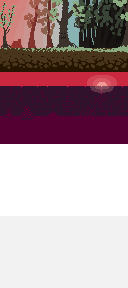
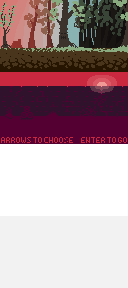
Economy scene

Changed region(s): [[0.0, 0.4688, 0.5625, 0.5], [0.625, 0.4688, 1.0, 0.5]]

diff --git a/EconomyManager.cpp b/EconomyManager.cpp
@@ -1,8 +1,173 @@
+#include <bits/stdc++.h>
 #include "EconomyManager.h"
+#include "Factory.h"
 
-EconomyManager::EconomyManager(Scene& scene) : scene_(scene) {
+EconomyManager::EconomyManager(Scene& scene) : scene_(dynamic_cast<EconomyScene&>(scene)) {
 }
 
 void EconomyManager::Update() {
-    scene_.has_finished = true;
+    static int index = 0;
+    auto& decorator = scene_.decorator;
+    bool is_last = index == decorator.GetSquadSize() 
+        || index == decorator.GetSquadSize() - 1;
+    auto input = GetInput();
+
+    DrawSquad();
+
+    if (is_last) {
+        DrawOptionsLast(index);
+        ChangeLastUnit(index, -input.y);
+    } else {
+        DrawOptions(index);
+        ChangeUnit(index, -input.y);
+    }
+
+    int min = 0, max = std::min(max_size - 1, static_cast<int>(decorator.GetSquadSize()));
+    index = std::max(min, std::min(index + input.x, max));
+
+    if (sf::Keyboard::isKeyPressed(sf::Keyboard::Enter)) {
+        scene_.has_finished = true;
+    }
+}
+
+void EconomyManager::DrawSquad() {
+    auto& drawer = DrawManager::GetInstance();
+    int x_offset = 0, x_delta = tile_size;
+    int y_offset = icon_y;
+    auto units = scene_.decorator.GetSquad().units;
+
+    for (const auto& unit: units) {
+        auto drawable = DrawableObject::FromIcon(unit->icon_type);
+        sf::Vector2i position(x_offset, y_offset);
+        drawable.position_ = position;
+        x_offset += x_delta;
+        drawer.AddDrawableObject(drawable);
+    }
+
+    auto drawable = DrawableObject::FromIcon(DrawableObject::IconEmpty);
+    sf::Vector2i position(x_offset, y_offset);
+    drawable.position_ = position;
+    drawer.AddDrawableObject(drawable);
+}
+
+/*
+Knight
+CrossbowMan
+Berserk
+*/
+void EconomyManager::DrawOptions(int index) {
+    auto& drawer = DrawManager::GetInstance();
+    auto& decorator = scene_.decorator;
+    int x_offset = tile_size * index;
+    int y_lower = icon_y - tile_size;
+    int y_upper = icon_y + tile_size;
+
+    auto type = decorator.GetSquad().units[index]->icon_type;
+    auto lower_type = type + 8;
+    if (lower_type == 4 * 8) lower_type = 1 * 8;
+    auto upper_type = type - 8;
+    if (upper_type == 0 * 8) upper_type = 3 * 8;
+
+    auto lower_drawable = DrawableObject::FromIcon(DrawableObject::Icon(lower_type));
+    lower_drawable.position_ = sf::Vector2i(x_offset, y_lower);
+    drawer.AddDrawableObject(lower_drawable);
+    
+    auto upper_drawable = DrawableObject::FromIcon(DrawableObject::Icon(upper_type));
+    upper_drawable.position_ = sf::Vector2i(x_offset, y_upper);
+    drawer.AddDrawableObject(upper_drawable);    
+}
+
+/*
+Knight
+CrossbowMan
+Berserk
+Empty
+*/
+void EconomyManager::DrawOptionsLast(int index) {
+    auto& drawer = DrawManager::GetInstance();
+    auto& decorator = scene_.decorator;
+    int x_offset = tile_size * index;
+    int y_lower = icon_y - tile_size;
+    int y_upper = icon_y + tile_size;
+
+    auto type = index == decorator.GetSquadSize() ? 0 
+        : decorator.GetSquad().units[index]->icon_type;
+    auto lower_type = type + 8;
+    if (lower_type == 4 * 8) lower_type = 0 * 8;
+    auto upper_type = type - 8;
+    if (upper_type ==-1 * 8) upper_type = 3 * 8;
+
+    auto lower_drawable = DrawableObject::FromIcon(DrawableObject::Icon(lower_type));
+    lower_drawable.position_ = sf::Vector2i(x_offset, y_lower);
+    drawer.AddDrawableObject(lower_drawable);
+    
+    auto upper_drawable = DrawableObject::FromIcon(DrawableObject::Icon(upper_type));
+    upper_drawable.position_ = sf::Vector2i(x_offset, y_upper);
+    drawer.AddDrawableObject(upper_drawable);  
+}
+
+sf::Vector2i EconomyManager::GetInput() {
+    sf::Vector2i input(0, 0);
+    
+    static bool right = false;
+    if (sf::Keyboard::isKeyPressed(sf::Keyboard::Right) && !right) {
+        ++input.x;
+    }
+    right = sf::Keyboard::isKeyPressed(sf::Keyboard::Right);
+    
+    static bool left = false;
+    if (sf::Keyboard::isKeyPressed(sf::Keyboard::Left) && !left) {
+        --input.x;
+    }
+    left = sf::Keyboard::isKeyPressed(sf::Keyboard::Left);
+    
+    static bool up = false;
+    if (sf::Keyboard::isKeyPressed(sf::Keyboard::Up) && !up) {
+        ++input.y;
+    }
+    up = sf::Keyboard::isKeyPressed(sf::Keyboard::Up);
+    
+    static bool down = false;
+    if (sf::Keyboard::isKeyPressed(sf::Keyboard::Down) && !down) {
+        --input.y;
+    }
+    down = sf::Keyboard::isKeyPressed(sf::Keyboard::Down);
+
+    return input;
+}
+
+/*
+Knight
+CrossbowMan
+Berserk
+*/
+void EconomyManager::ChangeUnit(int index, int delta) {
+    auto& decorator = scene_.decorator;
+    auto unit_type = decorator.GetSquad().units[index]->type;
+    Unit::UnitType next_unit_type = Unit::UnitType((unit_type + delta + 3) % 3);
+    RoyalFactory factory;
+    decorator.RemoveUnit(index);
+    auto next_unit = factory.CreateUnit(next_unit_type);
+    decorator.InsertUnit(index, next_unit);
+}
+
+/*
+Knight
+CrossbowMan
+Berserk
+Empty
+*/
+void EconomyManager::ChangeLastUnit(int index, int delta) {
+    auto& decorator = scene_.decorator;
+    int unit_type = index == decorator.GetSquadSize() ? 3 
+        : decorator.GetSquad().units[index]->type;
+    int next_unit_type = (unit_type + delta + 4) % 4;
+    if (unit_type != 3) {
+        decorator.RemoveUnit(index);
+    }
+    if (next_unit_type != 3) {
+        RoyalFactory factory;
+        auto next_unit = factory.CreateUnit(Unit::UnitType(next_unit_type));
+        decorator.InsertUnit(index, next_unit);
+    }
 }

diff --git a/DrawManager.cpp b/DrawManager.cpp
@@ -1,7 +1,7 @@
 #include "DrawManager.h"
 
 DrawManager::DrawManager()
-    : window_(sf::VideoMode(128, 72), "RoyalPhoenixStory", sf::Style::Close) {
+    : window_(sf::VideoMode(128, 72), "RoyalPhoenixStory") { //, sf::Style::Close) {
     for (const auto& filename: texture_filenames_) {
         if (!textures_[filename].loadFromFile(filename)) {
             throw std::runtime_error("Can't load " + filename);
@@ -66,7 +66,7 @@ DrawableObject DrawableObject::FromBackground(Background background) {
 
 DrawableObject DrawableObject::FromIcon(Icon icon) {
     const int tile_size = 8;
-    sf::IntRect rect((icon / 8) * tile_size, (icon % 8) * tile_size, tile_size, tile_size);
+    sf::IntRect rect((icon % 8) * tile_size, (icon / 8) * tile_size, tile_size, tile_size);
     return DrawableObject("Graphics/units_icons.png", rect);
 }
 

diff --git a/Scene.cpp b/Scene.cpp
@@ -10,17 +10,18 @@ void Scene::Update() {
     }
 }
 
-BackgroundAdder::BackgroundAdder(Scene& scene, DrawableObject::Background background) 
-    : scene_(scene), background_(background) {
-}
-
-void BackgroundAdder::Update() {
-    scene_.list_to_draw_.emplace_back(DrawableObject::FromBackground(background_));
-}
-
 Scene::~Scene() {
     while (!script_vector.empty()) {
         delete script_vector.back();
         script_vector.pop_back();
     }
+}
+
+BackgroundAdder::BackgroundAdder(DrawableObject::Background background) 
+    : background_(background) {
+}
+
+void BackgroundAdder::Update() {
+    static auto& drawer = DrawManager::GetInstance();
+    drawer.AddDrawableObject(DrawableObject::FromBackground(background_));
 }

diff --git a/Units.h b/Units.h
@@ -8,11 +8,15 @@ protected:
 
 public:
     enum UnitType {
-        None, Rock, Paper, Scissors
+        None        = -1, 
+        Rock        = 0, 
+        Scissors    = 1,
+        Paper       = 2, 
     };
     UnitType type = None;
     DrawableObject::State state = DrawableObject::Idle;
     DrawableObject::Unit sprite_type;
+    DrawableObject::Icon icon_type;
     explicit Unit(unsigned int = 0);
     void Attack();
     void Die();
@@ -26,14 +30,14 @@ public:
     RockUnit();
 };
 
-class PaperUnit : public Unit {
-public:
-    PaperUnit();
-};
-
 class ScissorsUnit : public Unit {
 public:
     ScissorsUnit();
+};
+
+class PaperUnit : public Unit {
+public:
+    PaperUnit();
 };
 
 class Knight : public RockUnit {

diff --git a/Squad.cpp b/Squad.cpp
@@ -26,7 +26,7 @@ EconomicDecorator::EconomicDecorator(Squad* squad, unsigned int& balance) :
 
 bool EconomicDecorator::InsertUnit(size_t ind, Unit* unit) {
     if (balance_ < unit->GetCost()) {
-        return false;
+        //return false;
     }
     balance_ -= unit->GetCost();
     squad_->units.insert(squad_->units.begin() + ind, unit);
@@ -36,6 +36,10 @@ bool EconomicDecorator::InsertUnit(size_t ind, Unit* unit) {
 void EconomicDecorator::RemoveUnit(size_t ind) {
     balance_ += squad_->units[ind]->GetCost();
     squad_->units.erase(squad_->units.begin() + ind);
+}
+
+const Squad& EconomicDecorator::GetSquad() {
+    return *squad_;
 }
 
 size_t EconomicDecorator::GetSquadSize() {

diff --git a/SceneManager.cpp b/SceneManager.cpp
@@ -1,12 +1,13 @@
 #include "SceneManager.h"
 
 void SceneManager::CreateScene(SceneType scene_type, sf::Clock& clock, Squad* squad) {
+    static unsigned int balance = 0;
     switch (scene_type) {
         case Battle:
-            cur_scene_ = std::make_shared<Scene>(BattleScene(clock, squad));
+            cur_scene_ = std::make_shared<BattleScene>(clock, squad);
             break;
         case Economy:
-            cur_scene_ = std::make_shared<Scene>(EconomyScene(clock, squad));
+            cur_scene_ = std::make_shared<EconomyScene>(clock, squad, balance);
             break;
         default:
             break;

diff --git a/EconomyManager.h b/EconomyManager.h
@@ -1,10 +1,22 @@
 #pragma once
 
-#include "Scene.h"
+#include "EconomyScene.h"
+#include <SFML/Graphics.hpp>
 
 class EconomyManager : public Script {
+private:
+    const int max_size = 16;
+    const int tile_size = 8;
+    const int icon_y = 48;
+
+    void DrawSquad();
+    void DrawOptions(int);
+    void DrawOptionsLast(int);
+    sf::Vector2i GetInput();
+    void ChangeUnit(int,int);
+    void ChangeLastUnit(int,int);
 protected:
-    Scene& scene_;
+    EconomyScene& scene_;
 public:
     EconomyManager(Scene&);
     void Update() override;

diff --git a/main.cpp b/main.cpp
@@ -10,7 +10,6 @@ int main() {
     scene_manager.CreateScene(SceneManager::Economy, game_clock, squad);
 
     while (drawer.IsOpen()) {
-        game_clock.restart();
         if (scene_manager.GetScene()->has_finished) {
             switch (scene_manager.cur_type) {
                 case SceneManager::Battle:
@@ -24,6 +23,7 @@ int main() {
             }
         }
         scene_manager.GetScene()->Update();
+        game_clock.restart();
         drawer.AddDrawableObjects(scene_manager.GetScene()->list_to_draw_);
         drawer.Draw();
     }

diff --git a/Units.cpp b/Units.cpp
@@ -36,16 +36,19 @@ ScissorsUnit::ScissorsUnit() {
 Knight::Knight(unsigned int cost) {
     cost_ = cost;
     sprite_type = DrawableObject::Knight;
+    icon_type = DrawableObject::IconKnight;
 }
 
 Berserk::Berserk(unsigned int cost) {
     cost_ = cost;
     sprite_type = DrawableObject::Berserk;
+    icon_type = DrawableObject::IconBerserk;
 }
 
 CrossbowMan::CrossbowMan(unsigned int cost) {
     cost_ = cost;
     sprite_type = DrawableObject::CrossbowMan;
+    icon_type = DrawableObject::IconCrossbowMan;
 }
 
 Werewolf::Werewolf() {

diff --git a/EconomyScene.cpp b/EconomyScene.cpp
@@ -1,6 +1,8 @@
 #include "EconomyScene.h"
+#include "EconomyManager.h"
 
-EconomyScene::EconomyScene(sf::Clock& clock, Squad* squad) : Scene(clock) {
-    script_vector.emplace_back(new BackgroundAdder(*this, DrawableObject::Background::Castle));
+EconomyScene::EconomyScene(sf::Clock& clock, Squad* squad, unsigned int& balance) 
+    : Scene(clock), decorator(squad, balance) {
+    script_vector.emplace_back(new BackgroundAdder(DrawableObject::Background::Castle));
     script_vector.emplace_back(new EconomyManager(*this));
 }

diff --git a/BattleScene.cpp b/BattleScene.cpp
@@ -28,7 +28,7 @@ BattleScene::BattleScene(sf::Clock& clock, Squad* squad) : Scene(clock) {
     ally_decorator = BattleDecorator(squad);
     enemy_decorator = BattleDecorator(enemy_squad_);
 
-    script_vector.emplace_back(new BackgroundAdder(*this, DrawableObject::Background::Forest));
+    script_vector.emplace_back(new BackgroundAdder(DrawableObject::Background::Forest));
     script_vector.emplace_back(new BattleManager(*this));
 }
 

diff --git a/EconomyScene.h b/EconomyScene.h
@@ -1,11 +1,13 @@
 #pragma once
 
-#include "EconomyManager.h"
 #include "Scene.h"
 #include "Squad.h"
 
 class EconomyScene : public Scene {
+
 public:
-    EconomyScene(sf::Clock&, Squad*);
+    EconomyScene(sf::Clock&, Squad*, unsigned int&);
     void HandleInput();
+
+    EconomicDecorator decorator;
 };
